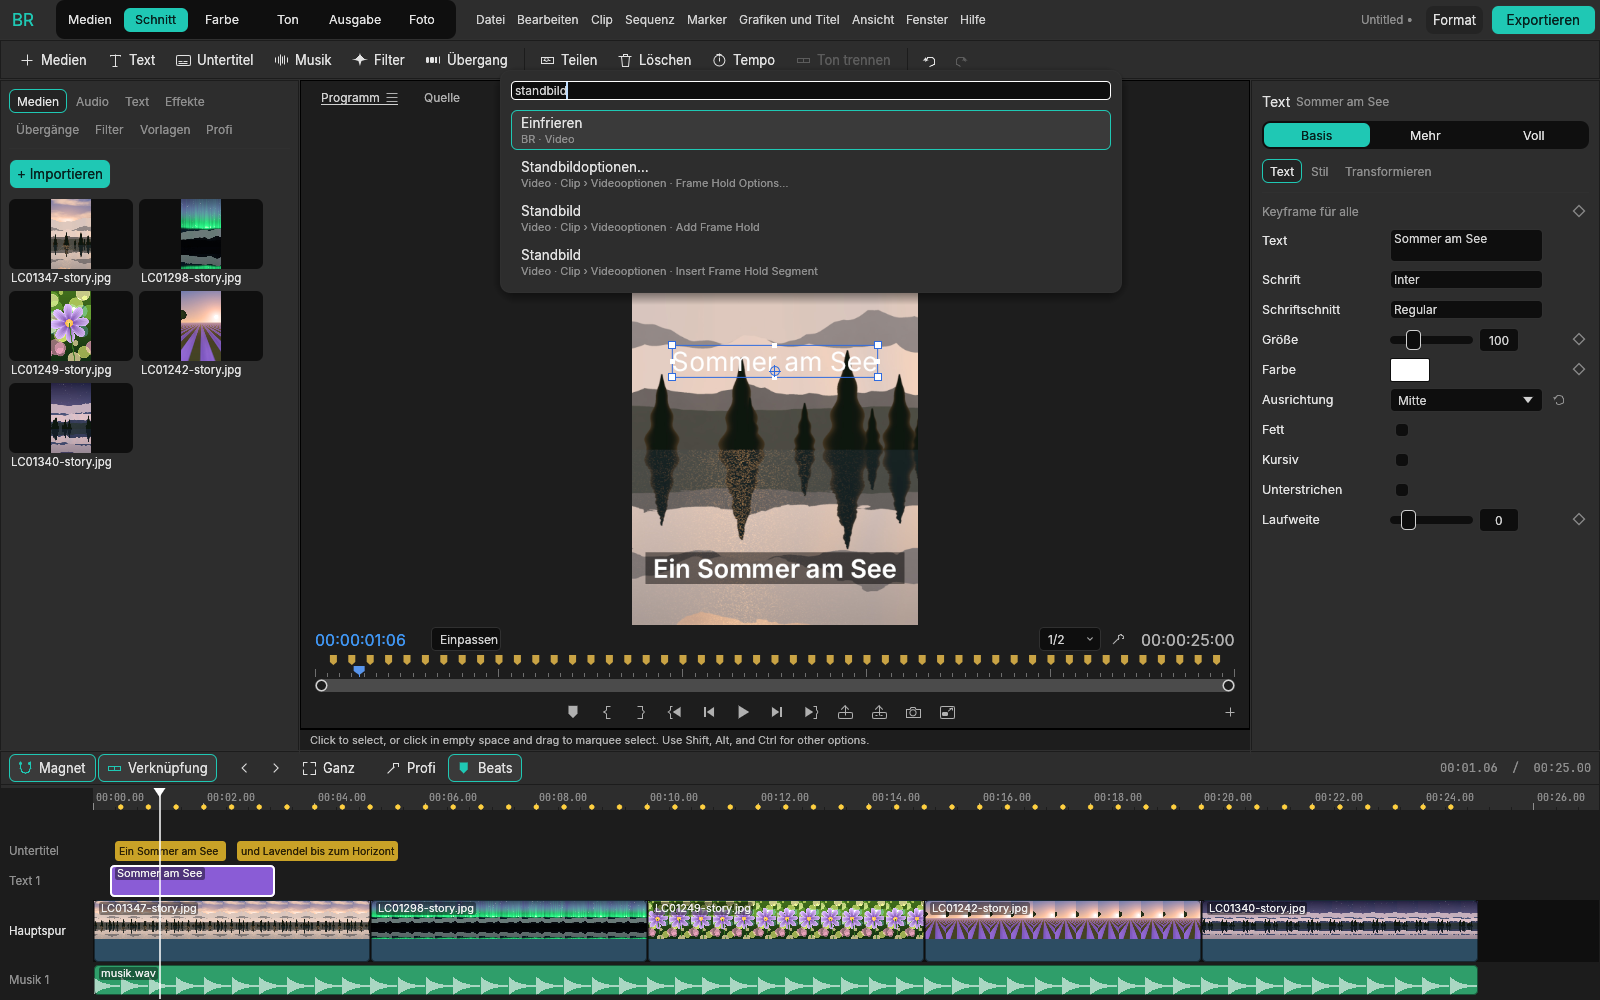
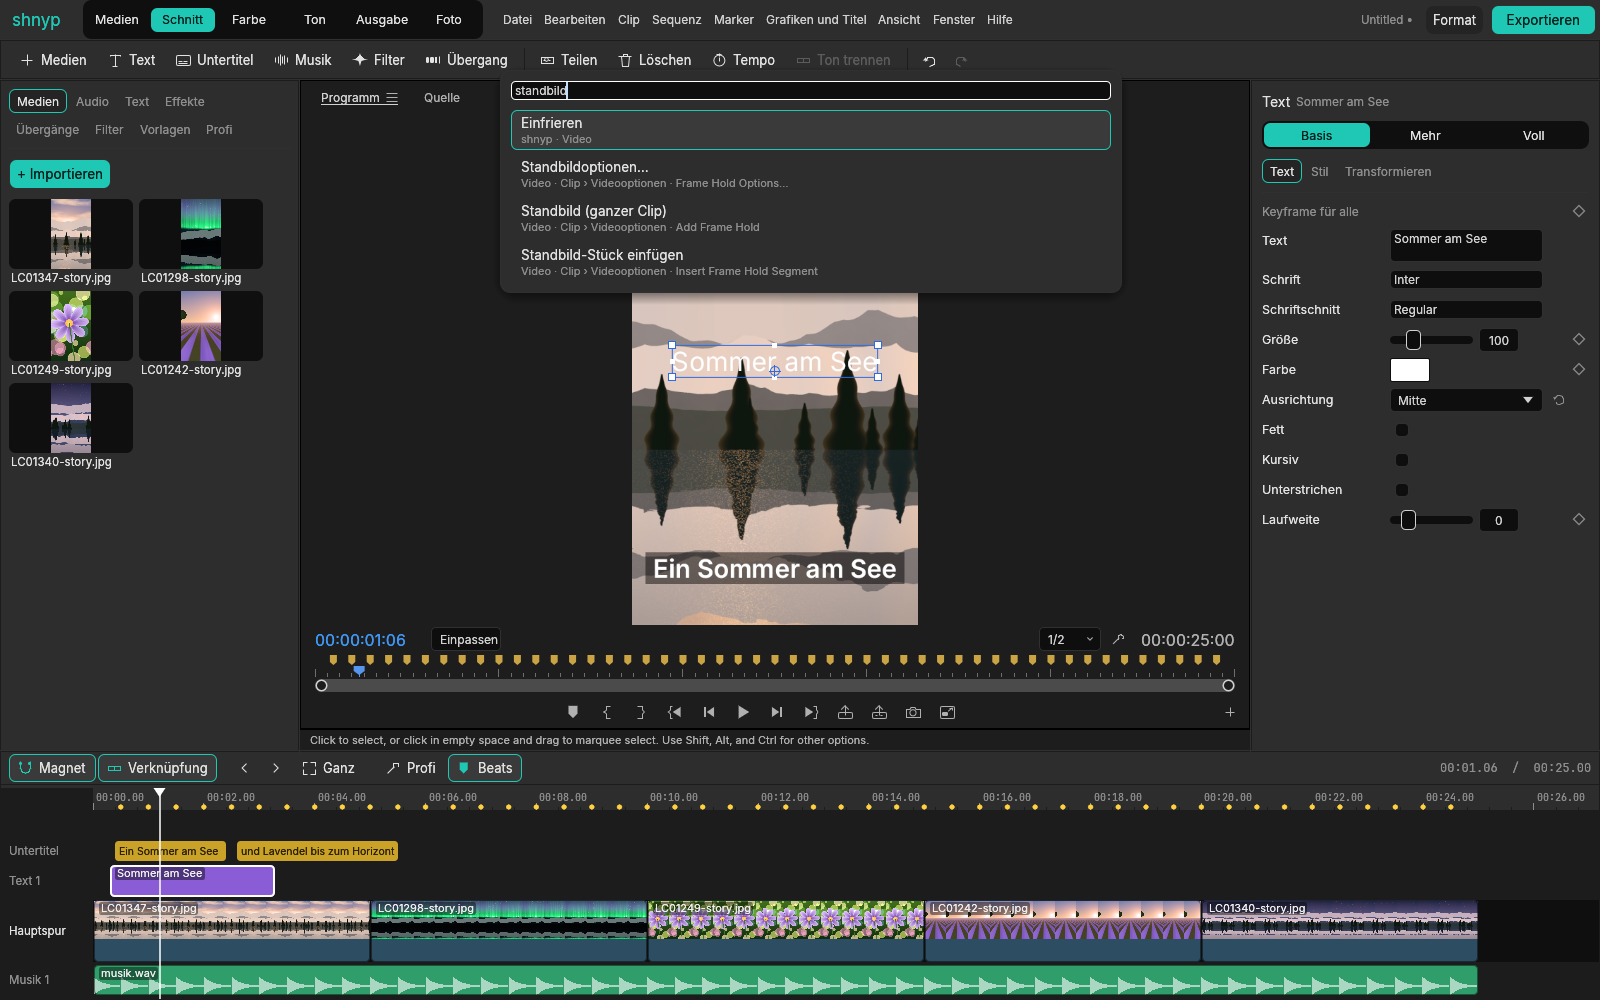
README pictures with shnyp's wordmark
Claude-Session: https://claude.ai/code/session_016P7H1fZ8QCL2hyZ6zBfKta

diff --git a/crates/shnyp-ui/tests/acceptance.rs b/crates/shnyp-ui/tests/acceptance.rs
@@ -417,7 +417,7 @@ fn deleting_a_main_clip_in_shnyp_s_timeline_takes_its_overlay_and_title_and_one_
     let _ = std::fs::remove_dir_all(&d);
 }
 
-/// The pictures of the README (run by hand: `SHNYP_DOCS_DIR=docs/images cargo test -p shnyp-ui --test
+/// The pictures of the README (run by hand: `SHNYP_DOCS_DIR=$PWD/docs/images cargo test -p shnyp-ui --test
 /// acceptance docs -- --ignored`): a video from the demo photos with a title, music, captions and
 /// beats; the start screen; the command search.
 #[test]
